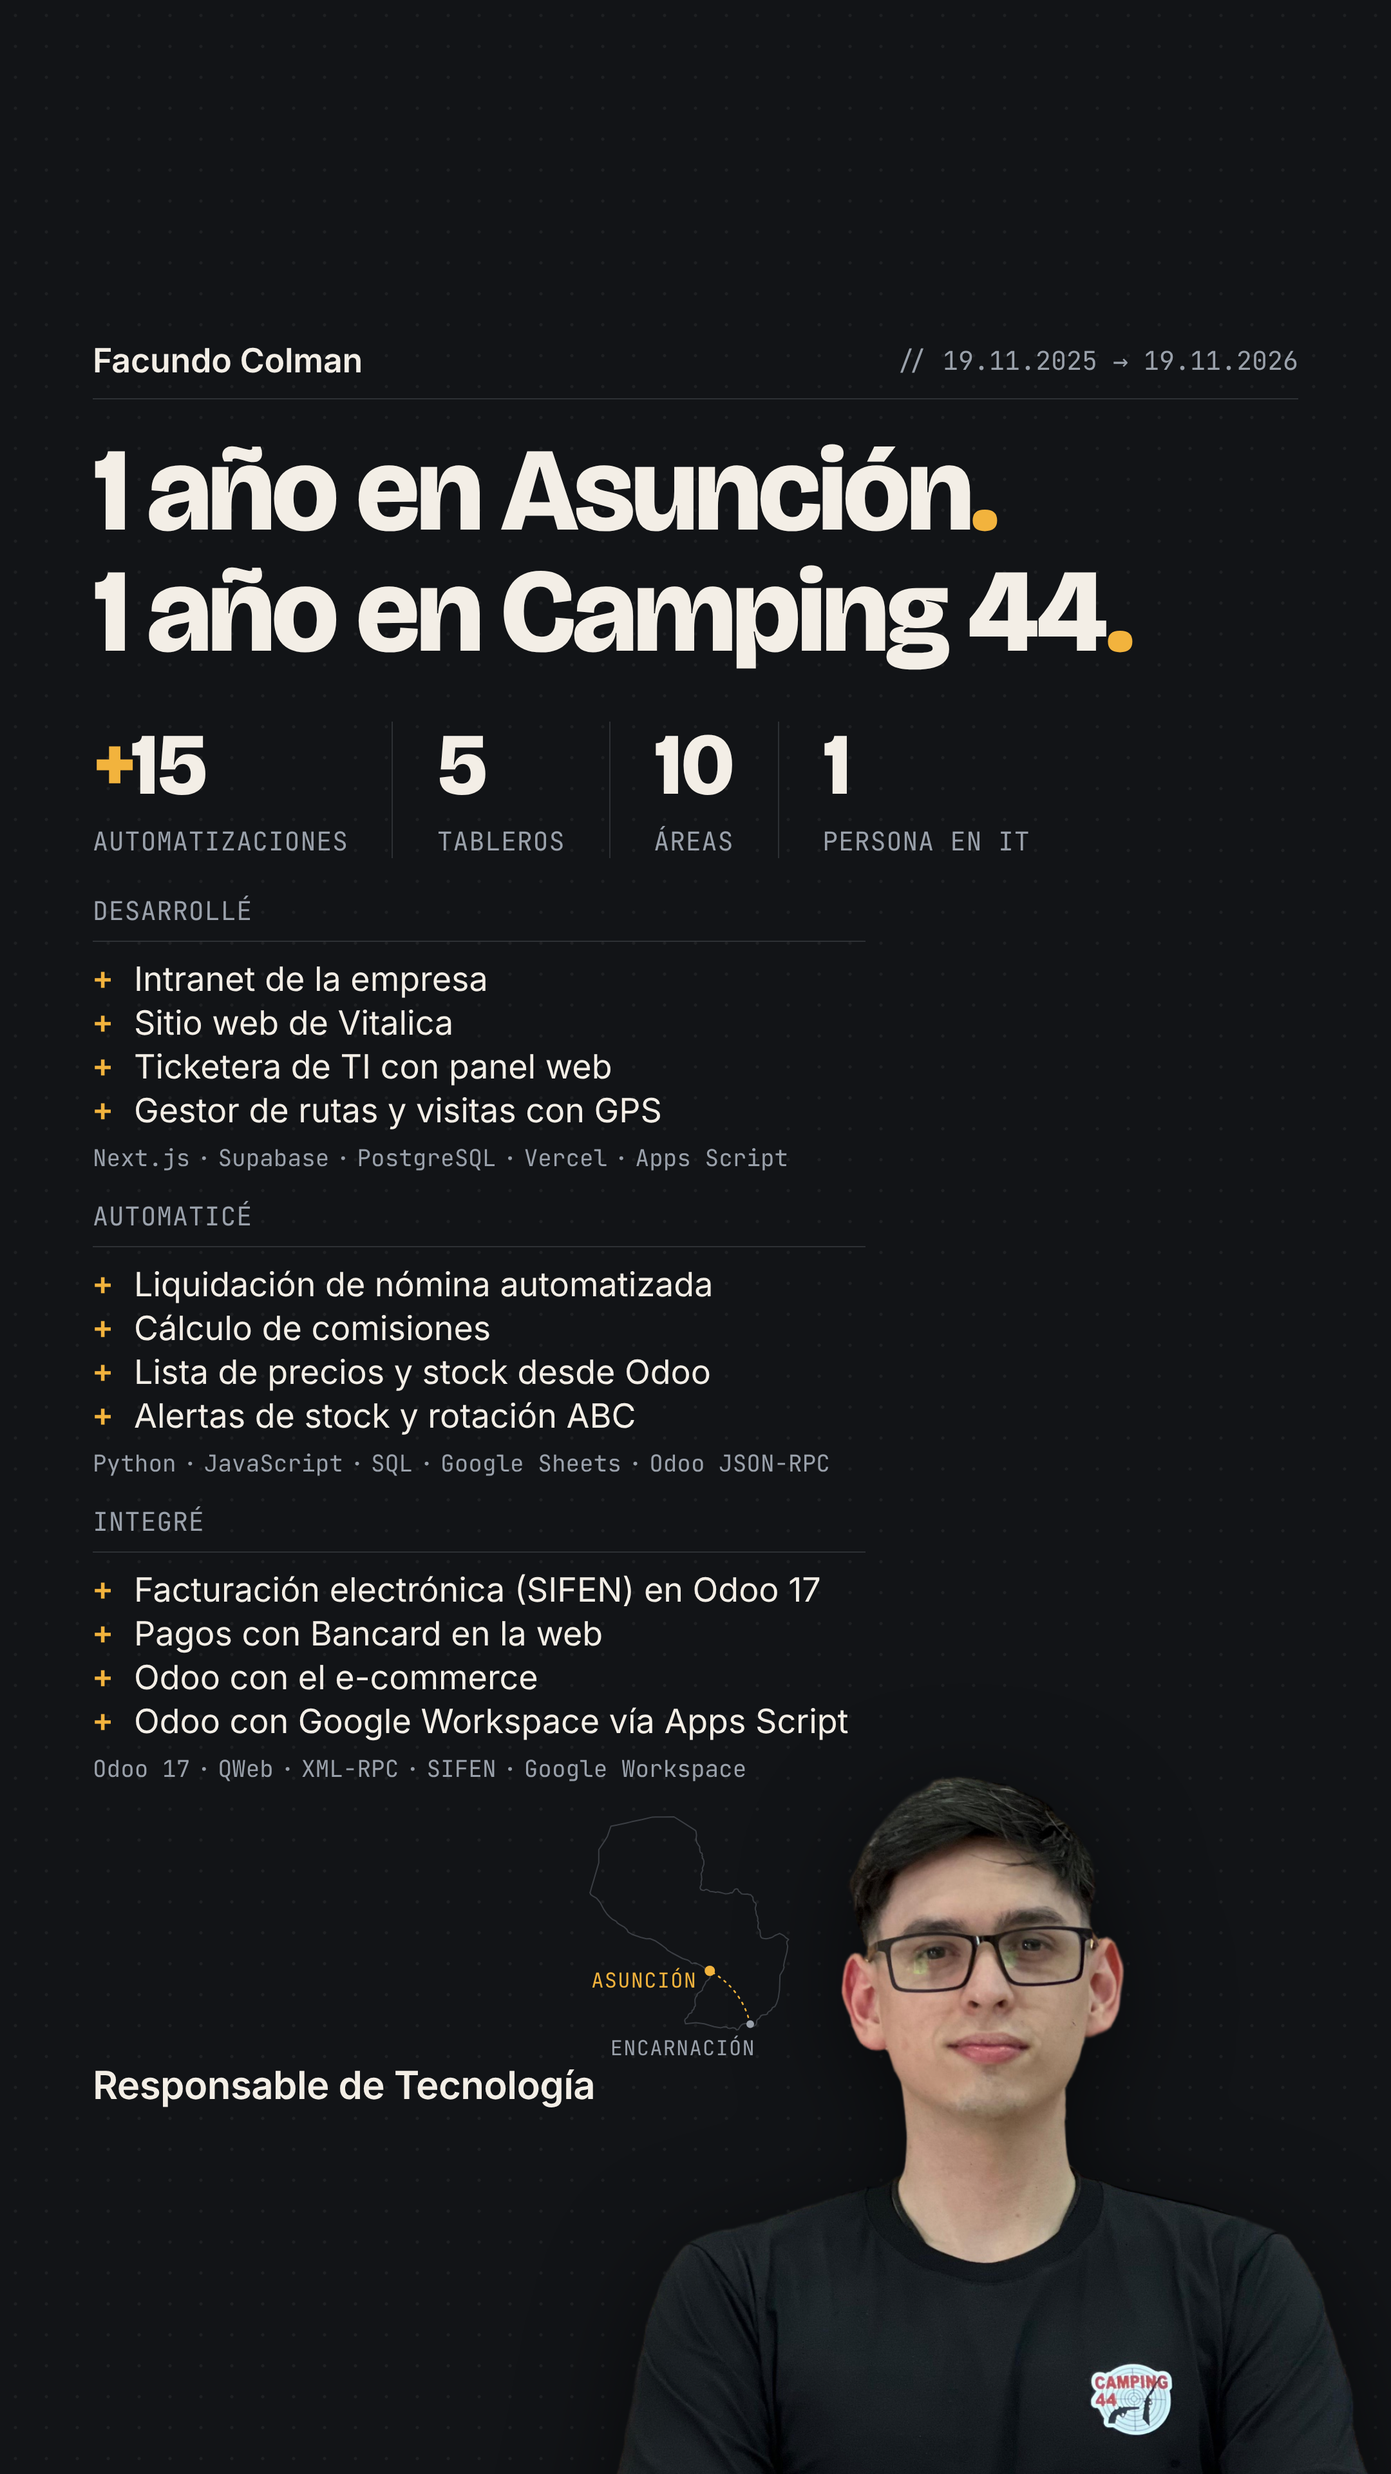
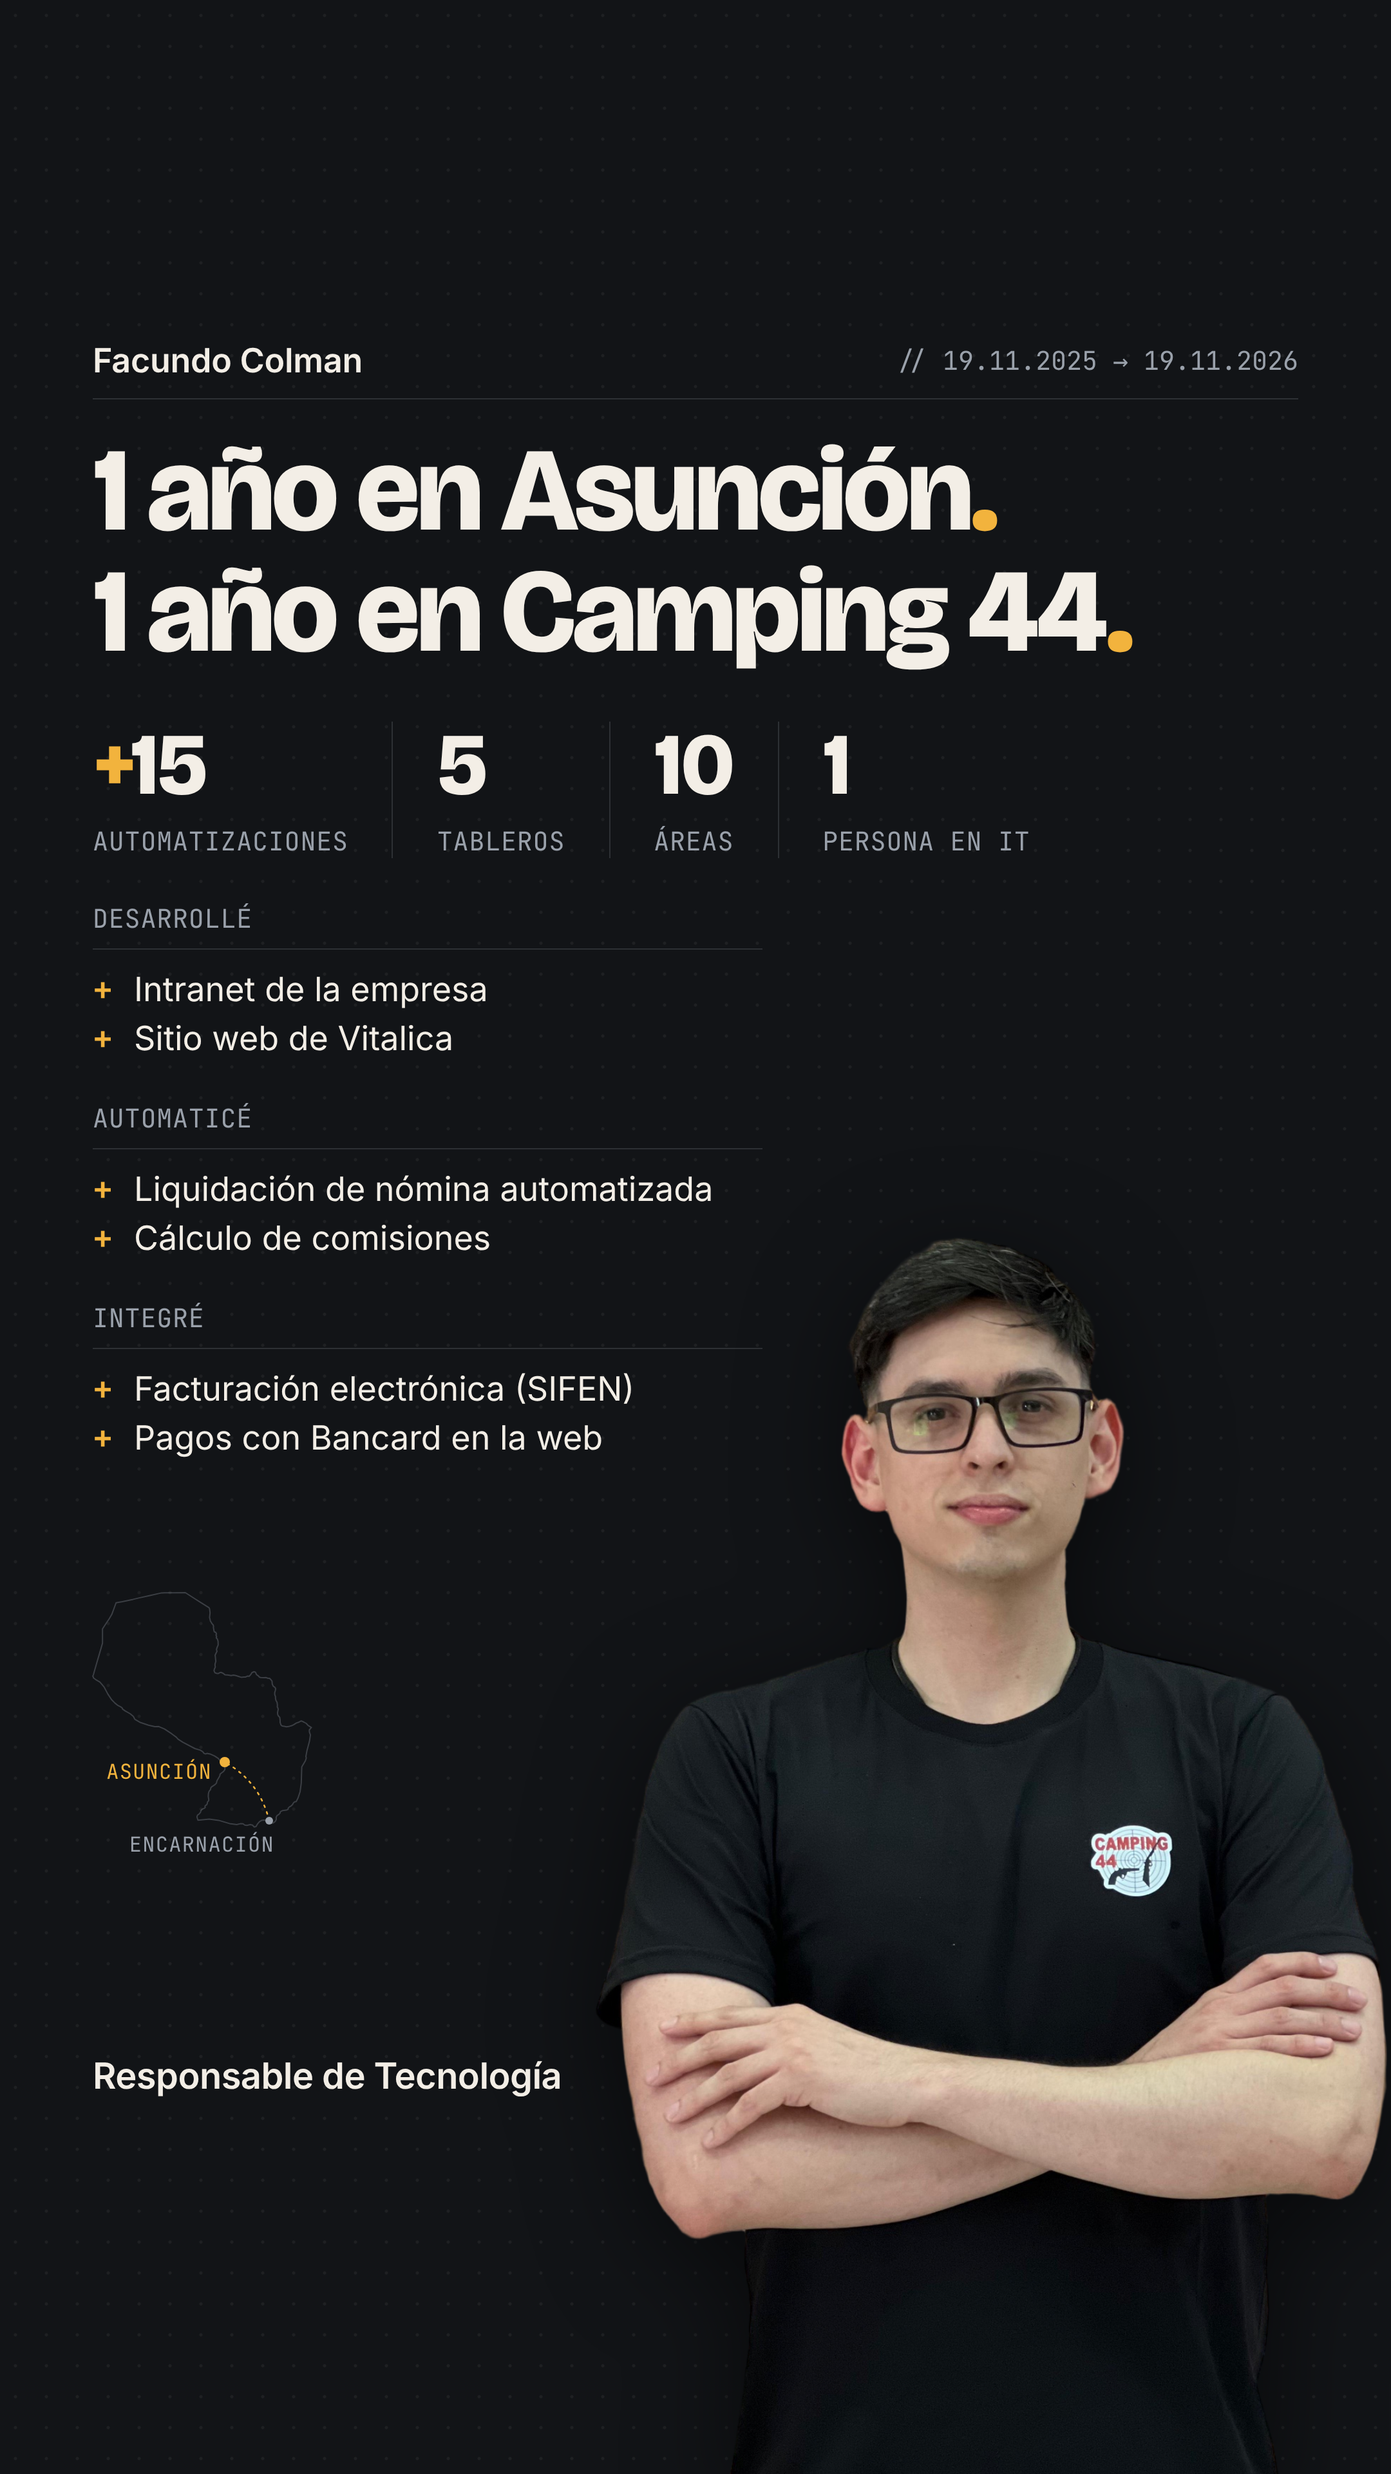
Historia IG: menos texto y foto de la cintura para arriba
- 2 ítems por grupo y sin líneas de tecnologías (la lista completa va en el post)
- Foto 615 px, al lado de los grupos, con los brazos cruzados y los codos dentro del cuadro
- Mapa a la izquierda, bajo los grupos; pie a 28 px para dejar aire con el codo

Claude-Session: https://claude.ai/code/session_01QmKcF7XnkXzDbM9dM3Boey

diff --git a/src/historia.html b/src/historia.html
@@ -25,52 +25,43 @@
     <div class="stat"><div class="num">1</div><div class="label">Persona en IT</div></div>
   </section>
 
-  <section class="content groups" style="top:694px">
-    <div class="group" style="width:600px">
+  <section class="content groups" style="top:700px">
+    <div class="group" style="width:520px">
       <div class="section-head"><span class="label">Desarrollé</span></div>
       <ul class="notes">
-        <li style="line-height:34px"><span class="plus">+</span>Intranet de la empresa</li>
-        <li style="line-height:34px"><span class="plus">+</span>Sitio web de Vitalica</li>
-        <li style="line-height:34px"><span class="plus">+</span>Ticketera de TI con panel web</li>
-        <li style="line-height:34px"><span class="plus">+</span>Gestor de rutas y visitas con GPS</li>
+        <li style="line-height:38px"><span class="plus">+</span>Intranet de la empresa</li>
+        <li style="line-height:38px"><span class="plus">+</span>Sitio web de Vitalica</li>
       </ul>
-      <div style="margin-top:8px"><div class="tech">Next.js<span class="sep"> · </span>Supabase<span class="sep"> · </span>PostgreSQL<span class="sep"> · </span>Vercel<span class="sep"> · </span>Apps Script</div></div>
     </div>
-    <div class="group" style="margin-top:20px;width:600px">
+    <div class="group" style="margin-top:30px;width:520px">
       <div class="section-head"><span class="label">Automaticé</span></div>
       <ul class="notes">
-        <li style="line-height:34px"><span class="plus">+</span>Liquidación de nómina automatizada</li>
-        <li style="line-height:34px"><span class="plus">+</span>Cálculo de comisiones</li>
-        <li style="line-height:34px"><span class="plus">+</span>Lista de precios y stock desde Odoo</li>
-        <li style="line-height:34px"><span class="plus">+</span>Alertas de stock y rotación ABC</li>
+        <li style="line-height:38px"><span class="plus">+</span>Liquidación de nómina automatizada</li>
+        <li style="line-height:38px"><span class="plus">+</span>Cálculo de comisiones</li>
       </ul>
-      <div style="margin-top:8px"><div class="tech">Python<span class="sep"> · </span>JavaScript<span class="sep"> · </span>SQL<span class="sep"> · </span>Google Sheets<span class="sep"> · </span>Odoo JSON-RPC</div></div>
     </div>
-    <div class="group" style="margin-top:20px;width:600px">
+    <div class="group" style="margin-top:30px;width:520px">
       <div class="section-head"><span class="label">Integré</span></div>
       <ul class="notes">
-        <li style="line-height:34px"><span class="plus">+</span>Facturación electrónica (SIFEN) en Odoo 17</li>
-        <li style="line-height:34px"><span class="plus">+</span>Pagos con Bancard en la web</li>
-        <li style="line-height:34px"><span class="plus">+</span>Odoo con el e-commerce</li>
-        <li style="line-height:34px"><span class="plus">+</span>Odoo con Google Workspace vía Apps Script</li>
+        <li style="line-height:38px"><span class="plus">+</span>Facturación electrónica (SIFEN)</li>
+        <li style="line-height:38px"><span class="plus">+</span>Pagos con Bancard en la web</li>
       </ul>
-      <div style="margin-top:8px"><div class="tech">Odoo 17<span class="sep"> · </span>QWeb<span class="sep"> · </span>XML-RPC<span class="sep"> · </span>SIFEN<span class="sep"> · </span>Google Workspace</div></div>
     </div>
   </section>
 
   <img class="photo" src="foto_recorte.png" alt="Facundo Colman"
-       style="left:462px;top:1378px;width:615px">
+       style="left:462px;top:960px;width:615px">
 
-  <svg class="map" style="left:458px;top:1410px" width="155" height="166" viewBox="0 0 155 166" overflow="visible" xmlns="http://www.w3.org/2000/svg">
-    <path d="M82.4,17.6L82.8,19.0L83.1,20.1L83.7,20.9L84.3,22.0L84.9,22.6L85.3,23.6L85.2,24.7L85.4,26.2L85.7,27.4L86.0,27.8L86.9,28.1L87.3,29.2L87.0,29.8L87.2,30.5L87.5,31.1L87.2,31.7L87.3,32.2L87.9,32.6L88.5,34.2L88.5,36.9L87.9,38.4L87.4,39.6L87.3,40.3L87.7,41.4L87.1,42.6L86.3,44.2L86.5,45.2L86.7,46.2L86.7,47.3L86.9,48.3L86.7,49.3L86.4,50.2L86.3,51.3L86.6,52.5L86.0,53.6L85.7,54.4L85.6,55.2L86.2,56.5L87.6,57.0L88.7,57.1L89.7,56.5L90.5,56.3L91.9,56.9L93.3,57.9L95.0,58.0L96.5,58.2L97.6,58.6L99.3,58.2L101.1,58.6L103.2,59.2L104.9,59.7L106.6,59.6L107.8,59.5L109.2,58.9L110.4,59.0L111.4,57.9L112.0,57.0L112.4,56.3L113.8,55.8L114.8,56.1L115.6,57.8L117.0,58.8L117.5,59.6L118.6,59.9L120.8,60.0L122.2,59.9L123.8,60.4L124.8,60.4L125.7,61.4L126.6,62.5L126.7,64.5L127.5,66.1L128.5,66.7L129.1,67.7L128.9,69.1L128.4,70.5L128.5,72.0L129.0,73.4L129.0,74.8L129.4,76.2L130.1,77.4L130.4,79.3L130.2,80.7L130.7,81.5L130.9,82.6L130.6,83.5L130.5,84.8L130.5,85.9L130.9,86.8L132.0,88.0L132.3,90.1L132.3,91.6L132.8,93.3L133.7,94.1L135.1,94.4L136.8,94.6L138.9,94.2L140.7,93.8L141.8,93.3L143.8,92.0L145.5,91.3L146.4,90.9L147.3,90.5L149.0,91.3L150.7,92.3L152.0,93.7L154.3,95.2L153.9,95.6L152.9,96.8L152.9,98.3L153.6,100.4L153.0,104.8L151.2,111.6L150.4,115.6L150.8,116.7L150.1,118.7L147.6,122.9L147.5,125.8L147.2,134.4L146.3,140.5L144.9,144.9L143.6,147.3L142.5,147.6L141.6,148.3L141.1,149.5L140.2,150.4L138.8,151.2L138.0,152.0L137.9,152.9L136.6,153.5L134.1,153.7L132.6,154.5L132.1,155.6L131.3,156.6L130.0,157.3L129.5,158.4L129.5,160.0L128.8,161.4L127.3,162.6L125.9,162.6L124.6,161.5L123.0,160.8L120.8,160.4L119.0,160.7L117.6,161.6L116.4,163.1L115.3,165.0L114.0,165.4L112.7,164.0L111.0,163.6L108.9,164.2L107.3,164.0L106.1,163.1L104.2,163.0L101.7,163.7L96.5,162.9L88.8,160.6L82.3,159.7L74.3,160.6L73.6,158.2L74.0,156.9L75.3,156.0L76.1,154.9L76.5,153.6L77.3,152.7L78.8,152.1L79.4,151.4L79.2,150.8L79.5,150.2L80.4,149.7L80.8,148.9L81.0,147.8L81.3,147.3L81.8,146.9L81.9,146.1L81.6,143.8L81.6,141.9L82.0,140.4L82.5,139.5L82.9,139.3L83.2,138.8L83.3,137.9L83.8,137.0L86.4,135.3L87.4,134.4L87.4,133.6L87.8,132.4L89.3,129.9L89.8,128.8L89.9,128.2L90.4,127.6L92.2,126.3L93.2,125.0L93.4,123.8L92.9,122.4L91.9,120.8L88.6,117.0L86.1,115.3L82.9,113.8L80.7,113.4L79.7,113.9L78.7,113.5L77.6,112.2L75.8,111.1L72.1,110.0L63.6,105.5L60.2,103.4L59.0,102.0L55.8,99.6L50.6,96.1L46.6,94.5L43.8,94.6L39.4,93.5L33.2,91.4L29.7,89.4L28.7,87.4L26.5,85.4L22.9,83.4L21.0,82.1L20.9,81.5L19.8,80.7L17.8,79.7L15.6,77.9L13.3,75.5L10.7,71.7L8.0,66.5L5.1,63.1L2.0,61.3L0.5,60.1L0.5,59.5L0.0,58.9L0.4,58.0L1.5,54.0L3.2,48.4L4.9,42.5L6.9,35.6L6.9,30.7L6.9,25.5L9.7,21.3L11.7,18.3L13.5,15.4L15.2,10.5L16.4,7.2L20.9,6.4L28.5,4.7L32.3,3.8L40.4,2.1L48.5,0.2L57.1,0.1L65.3,0.0L71.8,4.1L76.7,7.2L82.0,10.6L82.4,11.4L82.8,14.3L82.4,17.6Z" fill="none" stroke="#9AA1AB" stroke-opacity="0.3" stroke-width="1" stroke-linejoin="round" vector-effect="non-scaling-stroke"/>
-    <path d="M124.5,160.9 Q117.9,133.3 93.1,119.5" fill="none" stroke="#F2B33D" stroke-width="1.25" stroke-dasharray="1.5 4" stroke-linecap="round"/>
-    <circle cx="124.5" cy="160.9" r="3" fill="#9AA1AB"/>
-    <circle cx="93.1" cy="119.5" r="4" fill="#F2B33D"/>
-    <text class="map-label" x="83.1" y="132.5" text-anchor="end" fill="#F2B33D">ASUNCIÓN</text>
-    <text class="map-label" x="128.5" y="184.9" text-anchor="end" fill="#9AA1AB">ENCARNACIÓN</text>
+  <svg class="map" style="left:72px;top:1236px" width="170" height="182" viewBox="0 0 170 182" overflow="visible" xmlns="http://www.w3.org/2000/svg">
+    <path d="M90.7,19.3L91.1,20.9L91.4,22.2L92.0,23.0L92.7,24.2L93.4,24.9L93.8,25.9L93.7,27.2L94.0,28.8L94.3,30.2L94.6,30.5L95.6,30.9L96.1,32.1L95.7,32.8L95.9,33.5L96.2,34.2L95.9,34.9L96.1,35.4L96.7,35.9L97.3,37.7L97.4,40.6L96.7,42.2L96.2,43.6L96.1,44.4L96.5,45.5L95.8,46.9L95.0,48.6L95.2,49.7L95.3,50.8L95.4,52.0L95.6,53.1L95.3,54.2L95.0,55.3L94.9,56.4L95.2,57.7L94.6,59.0L94.3,59.8L94.2,60.7L94.8,62.1L96.3,62.7L97.5,62.8L98.7,62.1L99.5,61.9L101.1,62.5L102.6,63.7L104.5,63.9L106.1,64.1L107.4,64.4L109.3,64.0L111.2,64.4L113.5,65.1L115.3,65.7L117.2,65.5L118.6,65.5L120.1,64.8L121.5,64.9L122.6,63.7L123.2,62.7L123.7,62.0L125.2,61.4L126.3,61.7L127.2,63.6L128.7,64.7L129.3,65.5L130.4,65.9L132.9,66.0L134.4,65.9L136.2,66.5L137.3,66.5L138.3,67.5L139.2,68.7L139.4,71.0L140.2,72.7L141.4,73.4L142.0,74.5L141.8,76.0L141.3,77.5L141.3,79.2L141.9,80.7L141.9,82.3L142.3,83.8L143.1,85.1L143.4,87.2L143.3,88.7L143.8,89.6L144.0,90.8L143.7,91.9L143.5,93.2L143.6,94.5L144.0,95.5L145.2,96.8L145.5,99.1L145.5,100.7L146.1,102.6L147.1,103.5L148.7,103.8L150.5,104.1L152.8,103.7L154.8,103.1L155.9,102.6L158.1,101.2L160.1,100.5L161.1,99.9L162.0,99.6L164.0,100.5L165.8,101.5L167.2,103.1L169.8,104.7L169.3,105.2L168.2,106.5L168.2,108.1L169.0,110.4L168.3,115.3L166.3,122.8L165.5,127.1L165.8,128.4L165.1,130.5L162.3,135.2L162.2,138.4L161.9,147.8L161.0,154.5L159.4,159.4L158.0,162.1L156.7,162.4L155.8,163.2L155.2,164.4L154.2,165.4L152.7,166.3L151.8,167.2L151.7,168.2L150.3,168.8L147.5,169.1L145.8,169.9L145.4,171.2L144.4,172.2L143.1,173.0L142.4,174.3L142.5,176.0L141.7,177.6L140.0,178.8L138.5,178.9L137.1,177.7L135.2,176.9L132.9,176.5L131.0,176.8L129.4,177.8L128.0,179.4L126.8,181.5L125.4,181.9L124.0,180.4L122.1,180.0L119.8,180.6L118.0,180.4L116.7,179.4L114.6,179.3L111.8,180.0L106.2,179.2L97.7,176.7L90.5,175.7L81.7,176.6L80.9,174.0L81.4,172.6L82.8,171.6L83.7,170.4L84.1,169.0L85.1,168.0L86.7,167.3L87.4,166.6L87.1,165.9L87.5,165.2L88.4,164.7L88.9,163.8L89.1,162.6L89.4,162.0L90.0,161.6L90.1,160.7L89.7,158.2L89.8,156.1L90.2,154.5L90.8,153.5L91.2,153.2L91.5,152.7L91.6,151.7L92.2,150.8L95.0,148.9L96.1,147.8L96.2,146.9L96.6,145.7L98.3,142.9L98.8,141.7L98.8,141.0L99.4,140.4L101.4,138.9L102.5,137.5L102.7,136.1L102.2,134.6L101.1,132.9L97.5,128.7L94.7,126.8L91.1,125.2L88.8,124.7L87.7,125.2L86.5,124.8L85.4,123.4L83.4,122.2L79.3,121.0L69.9,116.1L66.2,113.7L64.9,112.2L61.4,109.6L55.7,105.8L51.3,103.9L48.2,104.0L43.3,102.9L36.6,100.6L32.7,98.3L31.6,96.1L29.1,94.0L25.2,91.8L23.1,90.3L23.0,89.6L21.8,88.7L19.6,87.6L17.2,85.7L14.6,83.0L11.8,78.8L8.8,73.2L5.6,69.4L2.2,67.4L0.5,66.1L0.5,65.5L0.0,64.8L0.5,63.8L1.7,59.5L3.5,53.2L5.4,46.8L7.6,39.2L7.6,33.8L7.6,28.1L10.7,23.4L12.9,20.1L14.8,16.9L16.8,11.5L18.1,7.9L23.0,7.0L31.4,5.2L35.6,4.2L44.4,2.3L53.4,0.2L62.8,0.1L71.9,0.0L78.9,4.5L84.3,7.9L90.3,11.7L90.7,12.5L91.1,15.7L90.7,19.3Z" fill="none" stroke="#9AA1AB" stroke-opacity="0.3" stroke-width="1" stroke-linejoin="round" vector-effect="non-scaling-stroke"/>
+    <path d="M137.0,177.0 Q129.7,146.6 102.5,131.5" fill="none" stroke="#F2B33D" stroke-width="1.25" stroke-dasharray="1.5 4" stroke-linecap="round"/>
+    <circle cx="137.0" cy="177.0" r="3" fill="#9AA1AB"/>
+    <circle cx="102.5" cy="131.5" r="4" fill="#F2B33D"/>
+    <text class="map-label" x="92.5" y="144.5" text-anchor="end" fill="#F2B33D">ASUNCIÓN</text>
+    <text class="map-label" x="141.0" y="201.0" text-anchor="end" fill="#9AA1AB">ENCARNACIÓN</text>
   </svg>
 
-  <footer class="footer" style="top:1600px">
+  <footer class="footer" style="top:1594px">
     <div class="role">Responsable de Tecnología</div>
   </footer>
 

diff --git a/src/build_historia.js b/src/build_historia.js
@@ -4,7 +4,7 @@
 const fs = require('fs');
 const path = require('path');
 const { chromium } = require('playwright');
-const { GROUPS, tech, paraguayMap } = require('./build.js');
+const { GROUPS, paraguayMap } = require('./build.js');
 
 const SRC = __dirname;
 const OUT = path.join(SRC, '..', 'output');
@@ -14,23 +14,28 @@ const SAFE = { top: 250, bottom: 1640 };
 
 // Posiciones (px CSS)
 const L = {
-  header: 250, title: 334, stats: 560, groups: 694,
-  itemLH: 34, groupGap: 20, techGap: 8, groupWidth: 600,
-  footer: 1600,
+  header: 250, title: 334, stats: 560, groups: 700,
+  itemLH: 38, groupGap: 30, groupWidth: 520,
+  footer: 1594,
 };
-// Foto: más grande que en LinkedIn (553 px). Plano de pecho: el borde inferior corta por los brazos,
-// por encima de las manos y lejos de los codos.
-const PHOTO = { width: 615, left: 462, top: 1378 };
-const MAPPOS = { x: 458, y: 1410, k: 20 };
+// Historia: menos texto para que la foto entre grande, de la cintura para arriba.
+// 2 ítems por grupo (la lista completa va en el post) y sin líneas de tecnologías.
+const STORY_ITEMS = {
+  'Desarrollé': ['Intranet de la empresa', 'Sitio web de Vitalica'],
+  'Automaticé': ['Liquidación de nómina automatizada', 'Cálculo de comisiones'],
+  'Integré':    ['Facturación electrónica (SIFEN)', 'Pagos con Bancard en la web'],
+};
+// Foto: más grande que en LinkedIn (553 px); codos completos dentro del cuadro.
+const PHOTO = { width: 615, left: 462, top: 960 };
+const MAPPOS = { x: 72, y: 1236, k: 22 };
 
 function page() {
-  const groups = GROUPS.map(([title, stack, items], i) => `
+  const groups = GROUPS.map(([title]) => [title, STORY_ITEMS[title]]).map(([title, items], i) => `
     <div class="group" style="${i ? `margin-top:${L.groupGap}px;` : ''}width:${L.groupWidth}px">
       <div class="section-head"><span class="label">${title}</span></div>
       <ul class="notes">
         ${items.map(t => `<li style="line-height:${L.itemLH}px"><span class="plus">+</span>${t.replace(/^\*/, '')}</li>`).join('\n        ')}
       </ul>
-      <div style="margin-top:${L.techGap}px">${tech(stack)}</div>
     </div>`).join('');
 
   return `<!doctype html>

diff --git a/src/historia.css b/src/historia.css
@@ -98,7 +98,7 @@ html, body { width: 1080px; height: 1920px; background: var(--bg); }
 
 /* Pie */
 .footer { position: absolute; left: var(--margin); }
-.footer .role { font-weight: 600; font-size: 30px; letter-spacing: -0.01em; }
+.footer .role { font-weight: 600; font-size: 28px; letter-spacing: -0.01em; }
 
 /* Mapa */
 .map { position: absolute; }
